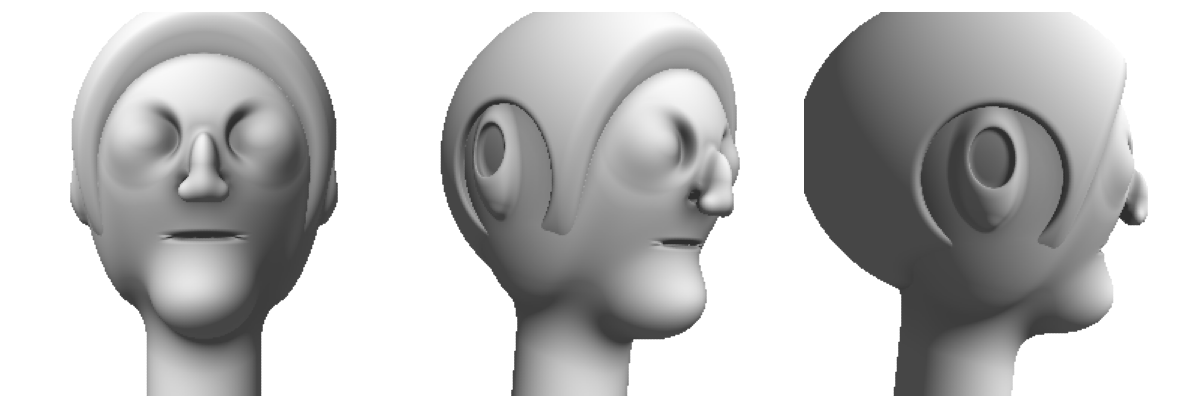
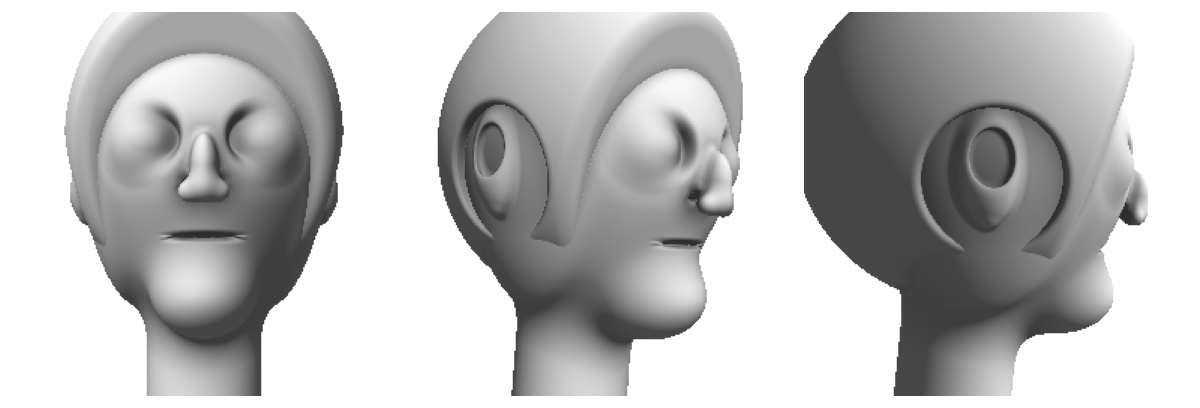
hair: reframe shell as a WIG (own volume + big-form value)
Per art direction: the hair cap is a wig - its own sculpted big-form mass with
crown lift and length that the head sits inside, lit as a big form and then
carved into locks - not a thin skull offset decorated with strokes. Give the
shell wig proportions (taller, lifted, more depth) and restore real big-form
lambert value (top lit, under/back dark) instead of the flat undercoat. Locks
ride on the lit big form.

Open: smooth outer silhouette (locks should break it), stray lock tips by ear.

diff --git a/face-lib/spike/ink-head.ts b/face-lib/spike/ink-head.ts
@@ -548,7 +548,7 @@ const renderView = (sdf: SDF, yaw: number, pitch: number) => {
   // bare-head SDF — if the hit sits off the face (positive), it is on the hair
   // shell. Hair gets a dark shaded fill, skin a flesh fill.
   const Lx = -0.3, Ly = 0.5, Lz = 0.82, Ln = Math.hypot(Lx, Ly, Lz);
-  const skin = [240, 211, 190], hairCol = [58, 46, 54];
+  const skin = [240, 211, 190], hairCol = [70, 55, 63];
   for (let y = 0; y < IMG; y++) for (let x = 0; x < IMG; x++) {
     const i = y * IMG + x;
     if (!g.hit[i]) continue;
@@ -560,8 +560,8 @@ const renderView = (sdf: SDF, yaw: number, pitch: number) => {
       cam.right[2] * u * cam.tanHalf + cam.up[2] * vv * cam.tanHalf + cam.forward[2],
     ]);
     const wp: Vec3 = [cam.origin[0] + rd[0] * g.depth[i], cam.origin[1] + rd[1] * g.depth[i], cam.origin[2] + rd[2] * g.depth[i]];
-    if (hairShellSDF(wp) < styledHead(wp)) {      // HAIR — flat dark UNDERCOAT only
-      const sh = 0.82 + 0.12 * lam;               // nearly flat; locks carry the form
+    if (hairShellSDF(wp) < styledHead(wp)) {      // HAIR — light the big WIG form
+      const sh = 0.5 + 0.55 * lam;                // real big-form value: top lit, under/back dark
       cv.stamp((x + 0.5) * SS, (y + 0.5) * SS, SS * 0.72, [hairCol[0] * sh, hairCol[1] * sh, hairCol[2] * sh], 1);
     } else {                                      // SKIN
       let sh = 0.76 + 0.24 * lam;

diff --git a/face-lib/spike/style3d.ts b/face-lib/spike/style3d.ts
@@ -76,8 +76,11 @@ const eyeballSDF = (p: Vec3, sign: number): number => {
 // carved to a hairline, with clump lumps so the silhouette is broken (a smooth
 // offset reads as a helmet). Rendered through the same G-buffer as the head, so
 // the hair volume foreshortens/occludes correctly. Strand strokes go on top.
-const CAP_R: Vec3 = [RX * 1.16, RY * 1.20, RZ * 1.30];
-const CAP_C: Vec3 = [0, RY * 0.10, -RZ * 0.14];
+// The hair is a WIG: its own sculpted big-form mass with crown lift and length
+// that the head sits INSIDE — not a thin offset of the skull. The outer surface
+// is the haircut silhouette; locks (in the ink pass) subdivide this big form.
+const CAP_R: Vec3 = [RX * 1.20, RY * 1.30, RZ * 1.34];
+const CAP_C: Vec3 = [0, RY * 0.18, -RZ * 0.12];
 const HAIR_CLUMPS: number[][] = (() => {
   const out: number[][] = [];
   const N = 22;
